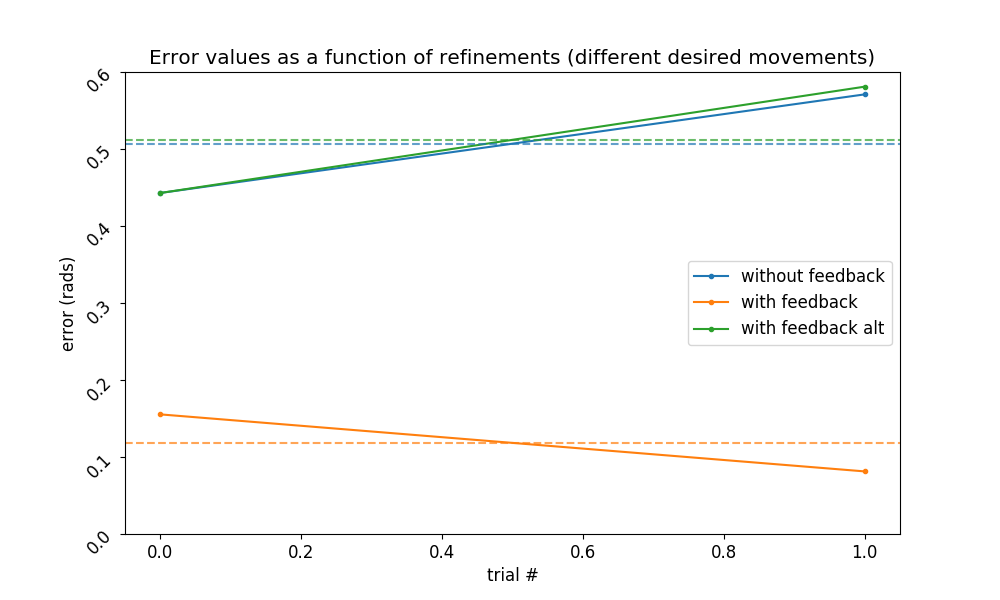
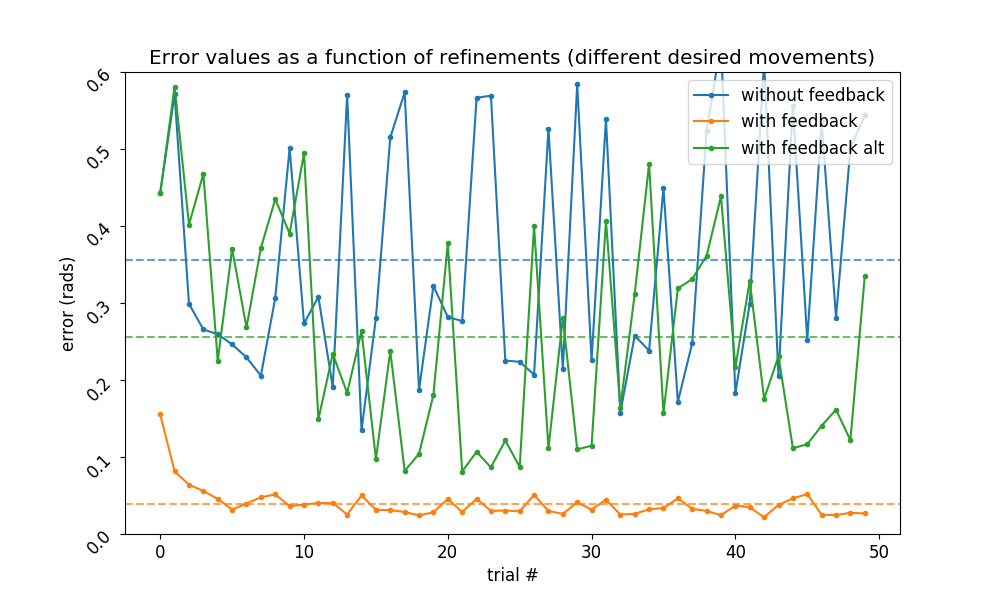
V5_50 data is collected now

diff --git a/main.py b/main.py
@@ -8,15 +8,15 @@ from feedback_functions import *
 
 simplefilter(action='ignore', category=FutureWarning)
 
-# np.random.seed(0)
-# [babbling_kinematics, babbling_activations] = babbling_fcn(simulation_minutes=5)
-# model = inverse_mapping_fcn(kinematics=babbling_kinematics, activations=babbling_activations)
-# cum_kinematics = babbling_kinematics
-# cum_activations = babbling_activations
+np.random.seed(0)
+[babbling_kinematics, babbling_activations] = babbling_fcn(simulation_minutes=5)
+model = inverse_mapping_fcn(kinematics=babbling_kinematics, activations=babbling_activations)
+cum_kinematics = babbling_kinematics
+cum_activations = babbling_activations
 
 
 
-# pickle.dump([model,cum_kinematics, cum_activations],open("results/mlp_model.sav", 'wb'))
+pickle.dump([model,cum_kinematics, cum_activations],open("results/mlp_model.sav", 'wb'))
 [model,cum_kinematics, cum_activations] = pickle.load(open("results/mlp_model.sav", 'rb')) # loading the model
 
 
@@ -25,7 +25,7 @@ I = np.array([2, 6])
 
 
 np.random.seed(0)
-experiments_switch = np.ones(11,)#np.ones(10,)#[0, 0, 0, 1, 0, 0, 0, 0, 0, 1]
+experiments_switch = np.zeros(11,)#np.ones(10,)#[0, 0, 0, 1, 0, 0, 0, 0, 0, 1]
 trial_number = 50
 plot_outputs = False
 for ii in range(len(experiments_switch)):
@@ -278,7 +278,7 @@ if experiments_switch[10] ==1: # cyclical on air
 
 errors_all = [exp1_average_error, exp2_average_error, exp3_average_error, exp4_average_error, exp5_average_error, exp6_average_error, exp7_average_error, exp8_average_error, exp9_average_error, exp10_average_error, exp11_average_error]
 pickle.dump([errors_all, trial_number],open("results/P_I/feedback_errors_P_I_V5_50.sav", 'wb')) # saving the results with only P
-[errors_all, trial_number] = pickle.load(open("results/P_I/feedback_errors_P_I_V5_50.sav", 'rb')) # loading the results with only P
+#[errors_all, trial_number] = pickle.load(open("results/P_I/feedback_errors_P_I_V5_50.sav", 'rb')) # loading the results with only P
 plot_comparison_figures_fcn(errors_all, experiments_switch, trial_number)
 
 #import pdb; pdb.set_trace()
